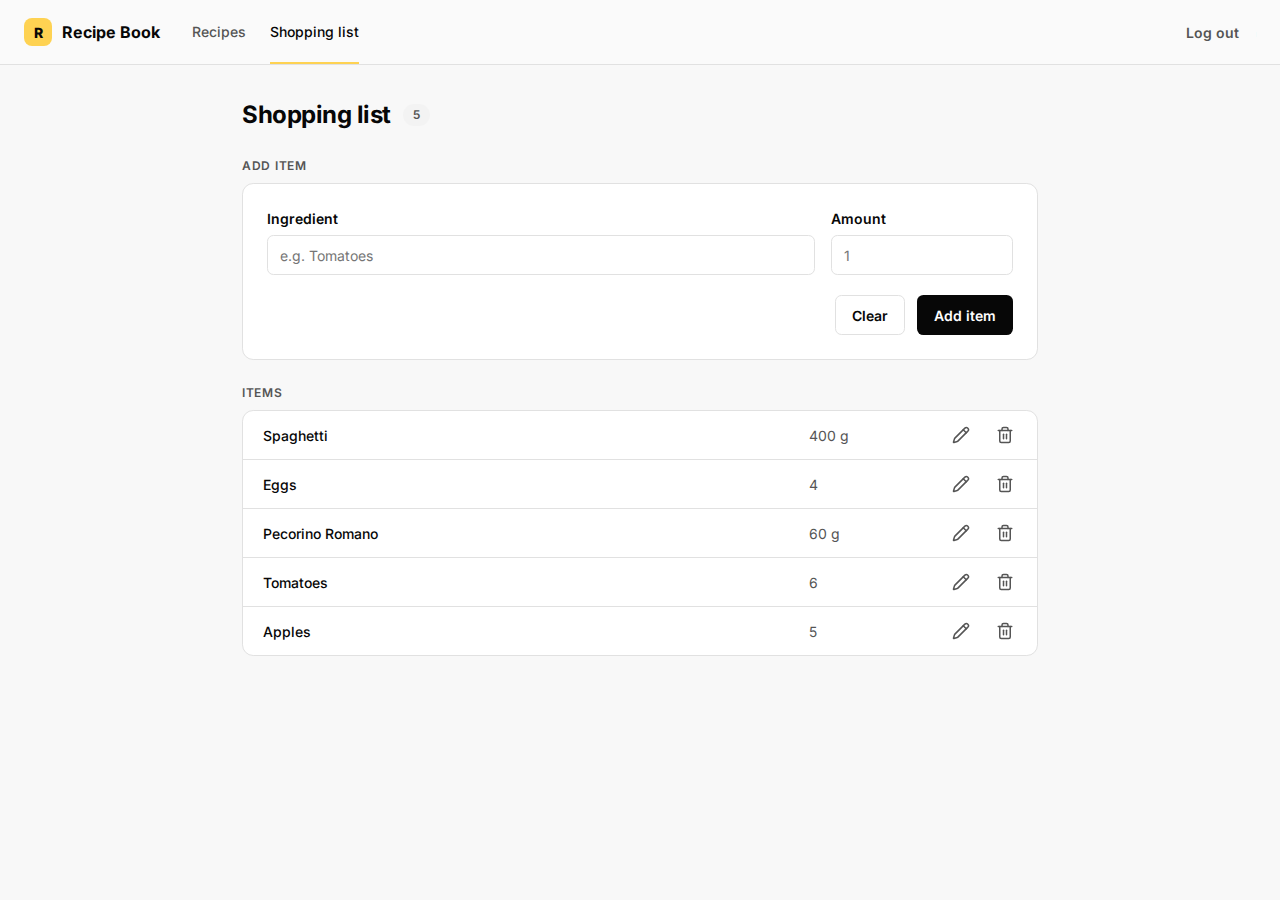
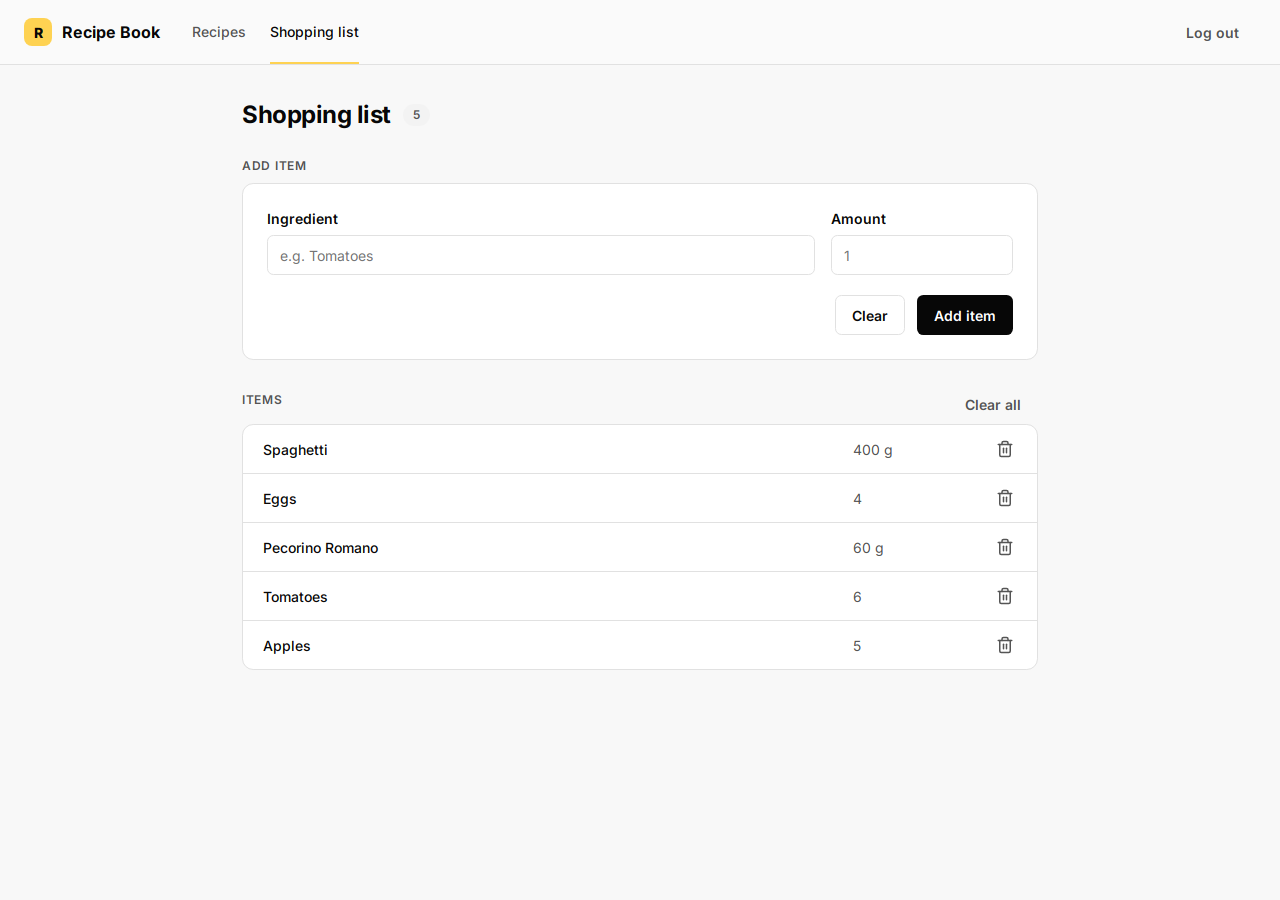
Docs: add clear-all and search guides; drop edit guide; sync Recipe book copy

diff --git a/reports/2026-11-19-doc-drift-cron.md b/reports/2026-11-19-doc-drift-cron.md
@@ -1,38 +1,43 @@
-# Document drift cron — 2026-11-19 08:36 UTC
+# Document drift cron — 2026-11-19 09:05 UTC
 
 Target: https://demo-angular-22-wgdt.free.ccpve.co.za (headless Playwright, team `EMAIL`/`PASSWORD` secrets)
 
-Feature list source: `demo-angular-22` `DOCUMENTED_FEATURES.MD` on `main` after `git pull` (5 features at audit start; 4 after sync PR).
+Feature list: `demo-angular-22` `DOCUMENTED_FEATURES.MD` on `main` after `git pull` (6 features at audit start).
 
-## Summary
+## Summary (this run, live site)
 
-| Guide | Functional | Doc fidelity | Action |
+| Feature / guide | Functional | Doc fidelity | Action |
 | --- | --- | --- | --- |
-| `add-recipe-to-shopping-list.md` | pass | pass | — |
-| `add-to-shopping-list.md` | pass | drift → **pass** (PR) | Step 1: Log in control is a link, not a button |
-| `edit-shopping-list.md` | pass | pass | — |
-| `remove-from-shopping-list.md` | pass | drift → **pass** (PR) | Step 1: Log in control is a link, not a button |
-| `add-new-recipe.md` | fail | fail | Feature absent on live demo and in app `main`; guide removed, `DOCUMENTED_FEATURES.MD` updated in app repo |
+| `add-to-shopping-list.md` | pass | drift → **pass** (PR) | Step 1 post-login page title |
+| `remove-from-shopping-list.md` | pass | pass | — |
+| `add-recipe-to-shopping-list.md` | pass | drift → **pass** (PR) | Step 1 post-login page title |
+| `clear-all-shopping-list.md` | pass | fail (missing) → **pass** (PR) | New guide + screenshots |
+| `search-recipes-by-name.md` | fail | fail (missing) | New guide in docs PR; app PR wires `filtered()` (deploy required for live pass) |
+| Add a new recipe (no guide) | fail | fail | Removed from `DOCUMENTED_FEATURES.MD` in app PR (control not on live demo) |
 
-## Pre-fix mismatches (this run)
+## Pre-fix mismatches
 
 ### `add-to-shopping-list.md`
 
-- **Step 1:** Doc — *“Click the blue **Log in** button **inside the white card**”* → Screen — primary control is an `<a class="btn btn-primary">` with visible text **Log in** (link, not `<button>`).
+- **Step 1:** Doc — *“You should land on the **Recipes** page.”* → Screen — visible `h1` is **Recipe book** (nav tab text **Recipes**).
 
-### `remove-from-shopping-list.md`
+### `add-recipe-to-shopping-list.md`
 
-- **Step 1:** Doc — *“use the blue **Log in** button in the form card”* → Screen — same **Log in** **link** in the form card.
+- **Step 1:** Doc — *“You land on **Recipes**.”* → Screen — visible `h1` **Recipe book**.
 
-### `add-new-recipe.md` (removed)
+### `search-recipes-by-name.md` (missing guide)
 
-- **Step 2:** Doc — *“**New recipe** button at the top”* → Screen — no **New recipe** control on Recipes (removed from deployed app and `recipes.ts` on `main`).
+- **Step 3 (intended):** Doc — *“recipe list shows only matching names”* → Screen — typing `carbon` leaves **3** recipe buttons visible (search field does not filter on deployed build).
 
-## Post-PR verification
+### Add a new recipe
+
+- **Feature list:** Doc — *“Add a new recipe …”* in `DOCUMENTED_FEATURES.MD` → Screen — no **New recipe** button or create form on **Recipe book**.
+
+## Post-PR verification (local scripts)
+
+After docs branch updates prose/screenshots, run on live (search step remains fail until app deploy):
 
 ```text
-node scripts/doc-fidelity-audit.mjs   # exit 0
-node scripts/walkthrough-test.mjs       # exit 0
+node scripts/doc-fidelity-audit.mjs
+node scripts/walkthrough-test.mjs
 ```
-
-Screenshots refreshed via `node scripts/capture-guide-screenshots.mjs` for all four active guides.

diff --git a/docs/guides/clear-all-shopping-list.md b/docs/guides/clear-all-shopping-list.md
@@ -1,0 +1,48 @@
+---
+title: "Clear all items from your shopping list"
+description: "Remove every row from Items in one click with Clear all."
+type: guide
+---
+
+# Clear all items from your shopping list
+
+Use **Clear all** when you want an empty **Items** list without deleting rows one at a time.
+
+**Demo URL:** https://demo-angular-22-wgdt.free.ccpve.co.za
+
+## Steps
+
+### Step 1 — Sign in
+
+1. Open the demo URL. You see the **Log in** page.
+2. Type any **Email** and **Password** (the demo does not check them).
+3. Click the blue **Log in** link **inside the white card** (not the small **Log in** link in the top-right header).
+
+You land on **Recipe book** (the **Recipes** tab in the header is highlighted).
+
+![Log in page](/assets/guides/clear-all-shopping-list/step-1-login.png)
+
+### Step 2 — Open Shopping list
+
+Click **Shopping list** in the header.
+
+You see **ITEMS** (small caps heading). If there is at least one row, a **Clear all** button appears on the right above the table.
+
+![Shopping list with Clear all visible](/assets/guides/clear-all-shopping-list/step-2-clear-all-button.png)
+
+### Step 3 — Clear every row
+
+Click **Clear all**.
+
+**Success looks like this:**
+
+- **ITEMS** has no rows.
+- The message **Your shopping list is empty.** appears in the table area.
+- The **Clear all** button is hidden until you add items again.
+
+![Empty shopping list after Clear all](/assets/guides/clear-all-shopping-list/step-3-empty-list.png)
+
+## Tips
+
+- **Clear all** only affects **Items**. It does not clear the **Ingredient** and **Amount** fields under **ADD ITEM** (use **Clear** there instead).
+- To remove a single row, see [Remove an item from your shopping list](remove-from-shopping-list.md).

diff --git a/docs/guides/search-recipes-by-name.md b/docs/guides/search-recipes-by-name.md
@@ -1,0 +1,45 @@
+---
+title: "Search recipes by name"
+description: "Filter the recipe list under ALL RECIPES using the Search recipes field."
+type: guide
+---
+
+# Search recipes by name
+
+Narrow the list under **ALL RECIPES** so you only see recipes whose names match what you type.
+
+**Demo URL:** https://demo-angular-22-wgdt.free.ccpve.co.za
+
+## Steps
+
+### Step 1 — Sign in
+
+1. Open the demo URL. You see the **Log in** page.
+2. Type any **Email** and **Password**.
+3. Click the blue **Log in** link in the white form card.
+
+You land on **Recipe book**.
+
+![Log in page](/assets/guides/search-recipes-by-name/step-1-login.png)
+
+### Step 2 — Open the search field
+
+Under **ALL RECIPES**, click the **Search recipes** field (placeholder: *Search recipes*).
+
+![Recipes page with search field](/assets/guides/search-recipes-by-name/step-2-search-field.png)
+
+### Step 3 — Type a recipe name
+
+Type part of a recipe name, for example `carbon`.
+
+The recipe list shows only matching names (for example **Spaghetti carbonara**). Non-matching recipes are hidden until you clear or change the search text.
+
+![Filtered recipe list](/assets/guides/search-recipes-by-name/step-3-filtered-list.png)
+
+### Step 4 — Clear the search (optional)
+
+Select all text in **Search recipes** and delete it, or backspace until the field is empty.
+
+The full recipe list under **ALL RECIPES** returns.
+
+![Full recipe list after clearing search](/assets/guides/search-recipes-by-name/step-4-full-list.png)

diff --git a/README.md b/README.md
@@ -7,9 +7,10 @@ Documentation for the [Recipe Book demo](https://demo-angular-22-wgdt.free.ccpve
 | Feature | Guide |
 |---|---|
 | Add to Shopping list | [Add an item to your shopping list](docs/guides/add-to-shopping-list.md) |
-| Edit shopping list items | [Edit a shopping list item](docs/guides/edit-shopping-list.md) |
 | Remove from shopping list | [Remove an item from your shopping list](docs/guides/remove-from-shopping-list.md) |
+| Clear all items from the shopping list | [Clear all items from your shopping list](docs/guides/clear-all-shopping-list.md) |
 | Add recipe items to shopping list | [Add a recipe to your shopping list](docs/guides/add-recipe-to-shopping-list.md) |
+| Search recipes by name | [Search recipes by name](docs/guides/search-recipes-by-name.md) |
 
 | Doc | Type |
 |---|---|

diff --git a/docs/index.md b/docs/index.md
@@ -11,9 +11,10 @@ Documentation for the [Recipe Book demo](https://demo-angular-22-wgdt.free.ccpve
 ## Guides
 
 - [Add an item to your shopping list](guides/add-to-shopping-list.md)
-- [Edit a shopping list item](guides/edit-shopping-list.md)
 - [Remove an item from your shopping list](guides/remove-from-shopping-list.md)
+- [Clear all items from your shopping list](guides/clear-all-shopping-list.md)
 - [Add a recipe to your shopping list](guides/add-recipe-to-shopping-list.md)
+- [Search recipes by name](guides/search-recipes-by-name.md)
 
 ## Info
 

diff --git a/docs/guides/remove-from-shopping-list.md b/docs/guides/remove-from-shopping-list.md
@@ -18,7 +18,7 @@ You must be signed in and on the **Shopping list** page. If **Items** is empty, 
 
 ### Step 1 — Open Shopping list and find the item
 
-1. Open the demo URL and sign in (any **Email** and **Password** work; use the blue **Log in** link in the form card).
+1. Open the demo URL and sign in (any **Email** and **Password** work; use the blue **Log in** link in the form card). You land on **Recipe book**.
 2. Click **Shopping list** in the header.
 3. Scroll to **ITEMS** and find the row you want to delete.
 

diff --git a/docs/guides/add-to-shopping-list.md b/docs/guides/add-to-shopping-list.md
@@ -20,7 +20,7 @@ Open the demo URL above. You should see the **Log in** page.
 2. Click in the **Password** box. Type any password.
 3. Click the blue **Log in** link **inside the white card** (not the small **Log in** link in the top-right header).
 
-You should land on the **Recipes** page.
+You should land on **Recipe book** (the **Recipes** tab in the header is selected).
 
 ![Log in page with Email, Password, and Log in link](/assets/guides/add-to-shopping-list/step-1-login.png)
 

diff --git a/docs/guides/add-recipe-to-shopping-list.md b/docs/guides/add-recipe-to-shopping-list.md
@@ -18,7 +18,7 @@ Add **every ingredient** from a recipe to **Items** in one click.
 2. Type any **Email** and **Password** (the demo does not check them).
 3. Click the blue **Log in** link **inside the white card** (not the small **Log in** tab in the top-right header).
 
-You land on **Recipes**.
+You land on **Recipe book** (the **Recipes** tab in the header is selected).
 
 ![Log in and sign in](/assets/guides/add-recipe-to-shopping-list/step-1-login.png)
 
